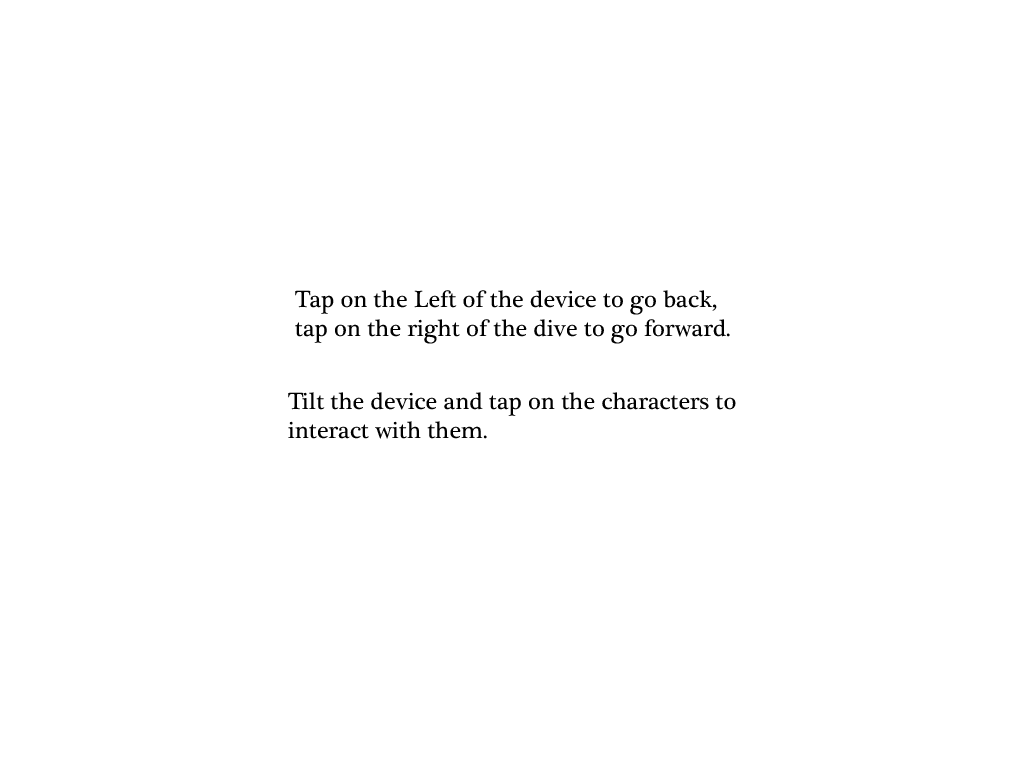
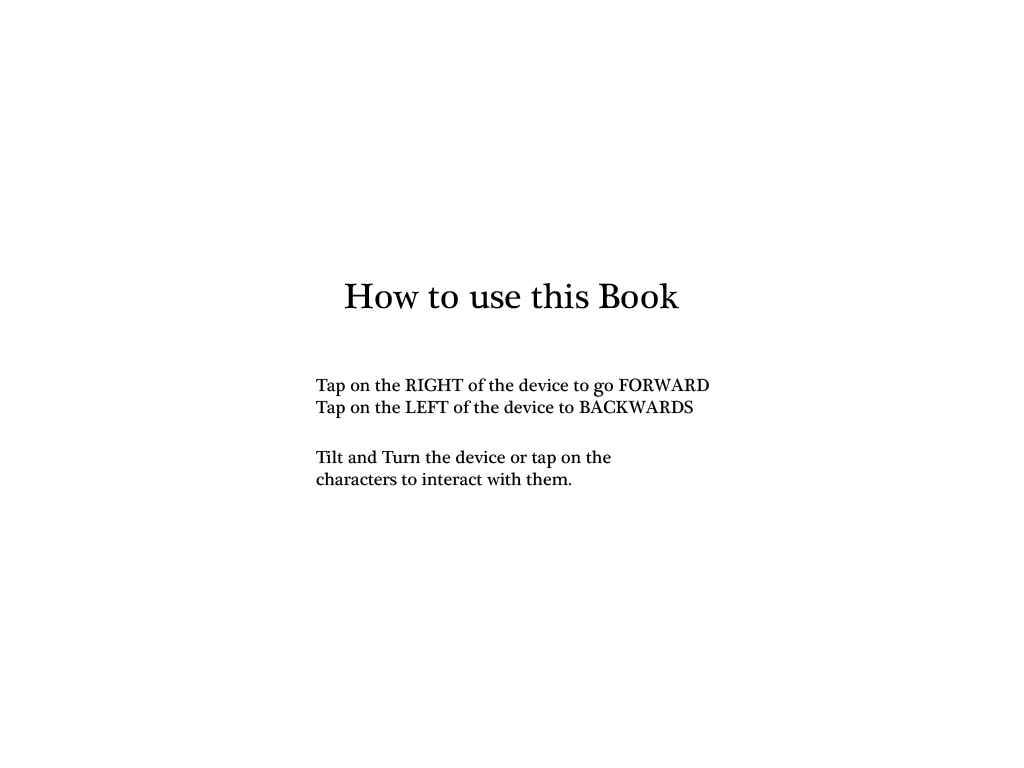
Fixed spelling mistakes in tutorial

Changed region(s): [[0.2812, 0.4688, 0.7188, 0.6562], [0.2812, 0.375, 0.7188, 0.4375]]

diff --git a/sketch.js b/sketch.js
@@ -811,7 +811,7 @@ function touchStarted() {
 	}
 	//Credits =========================================================================================
 	else if (creditScene) {
-		if (touchX > pageTurnRightX) {
+		if (touchX < pageTurnLeftX) {
 			treeScene = false;
 			titlePage = false;
 			tutorial = false;
